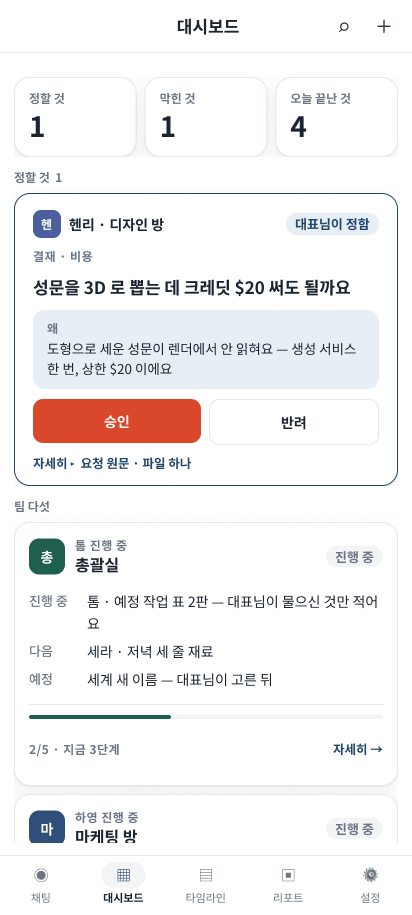
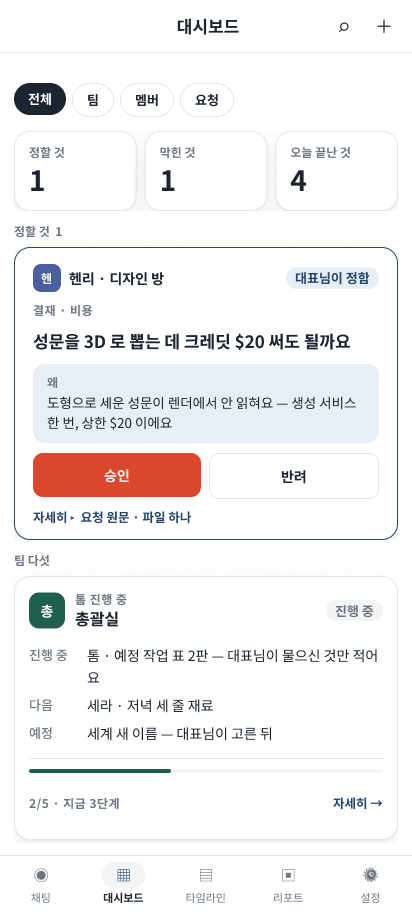
대시보드 3판-b — 거르기 알약(전체·팀·멤버·요청) 되살림(나리, 결정 172), 꼬리 달러는 뺀 것으로. 폰 412 그림 다시 뽑음(PC 1280 은 이 PC)

diff --git a/teams/design/out/ui-spec.md b/teams/design/out/ui-spec.md
@@ -240,7 +240,8 @@
 | **정할 것 N** | 눈썹 "정할 것  N" + 결재 카드(5절 그대로, 폭 384). 0 이면 카드 대신 "오늘은 없어요" 한 줄 — 나리 상시 대리(188) 뒤엔 이게 기본 모양 | 같은 카드 **한 단 폭 1120**, 단추 둘은 오른쪽 정렬 168씩(대응표 25번 PC 대표 블록) | 결재 큐 C 만. 찍으면 사라진다 |
 | **팀 다섯** | 눈썹 "팀 다섯" + 팀 카드 다섯 세로 — 채팅 팀 카드(`65:27`, 세 줄 진행 중·다음·예정) 그대로. 머리 작은 줄은 시각 대신 **"누구 진행 중"**, 꼬리는 **"끝난 수/전체 · 지금 N단계"** 한 자리(제안 2절). 막힌 것 있으면 세 줄 밑 **빨간 띠**(바탕 `#f7e0dc` · 글자 `#c94a3a` 13 Medium · 모서리 10 · 안여백 8/12) 한 줄 | 한 단 흰 카드(안여백 12) 안에 다섯 칸 가로(사이 12, 칸 209) — 같은 팀 카드. 다섯이 같은 높이(제일 큰 카드), 세 줄 칸이 늘어나 꼬리는 바닥에 나란히 | 상황판 세 칸 `--now --next --after` + blocked. 팀장이 줄을 바꾸면 카드가 바뀐다 |
 | **오늘 끝난 것 N** | 눈썹 + 흰 카드 하나, 줄마다 팀 색 점 10 + 사람 말 한 줄 14/22, 줄 사이 rule 1px, 안여백 10/14 | 같음, 한 단 폭 | 상황판 done + 판정 통과(사람 말 자 통과분). 날짜가 바뀌면 비운다(세라 5절, 낱말은 나리) |
-| 뺀 것 | 거르기 알약(전체·팀·멤버·요청) · 작업 보드 · 최근 활동 · 머리의 시계 "11:3x" · "06:49 갱신" 류 시각 전부(187·188) | 같음 — "자세히 →" 가 타임라인·리포트로 | — |
+| 거르기 알약 | **남긴다**(3판-b, 나리 — 멤버·요청으로 가는 길이라 빼면 대표 손잡이가 없어진다, 결정 172) — 본문 맨 위 한 줄(전체·팀·멤버·요청, 2판 그대로) | 머리 오른쪽(제목 옆) 2판 그대로 | 테라 9cc4135 실물과 같은 자리 |
+| 뺀 것 | 작업 보드 · 최근 활동 · 머리의 시계 "11:3x" · "06:49 갱신" 류 시각 전부(187·188) · 팀 카드 꼬리의 "오늘 쓴 것 N번 $N"(대표 18:10, 톰) | 같음 — "자세히 →" 가 타임라인·리포트로 | — |
 
 - 폰 첫 화면(915) 안에 **띠 + 결재 카드 + 팀 카드 하나**가 든다(제안 4절 물음의 답): 12+80+12+317+12+264 = 697 < 778. 그 밑은 스크롤 — 폰 틀은 915 고정, 본문은 잘려 보인다. PC 틀은 본문을 다 안게 1316 — 800 첫 화면엔 머리·띠·정할 것·팀 다섯 윗줄까지.
 - 본보기 글은 오늘 상황판·방 말에서 사람 말로 옮긴 것(시각 없음) — 결재 본보기는 결정 55 의 C(랜드마크 생성 비용). 낱말은 사전 1절 "정할 것·막힌 것·결재 — 대표님이 정함·진행 중·다음·예정" 안.
